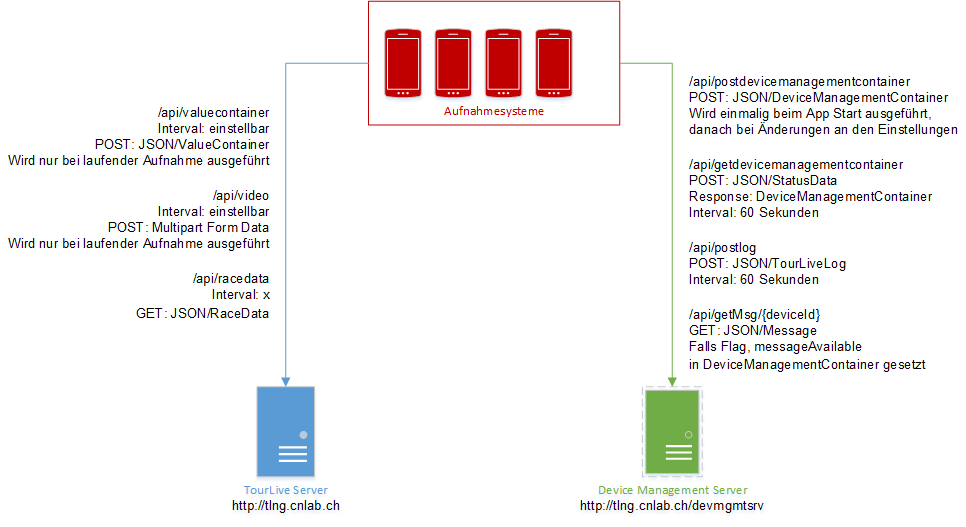
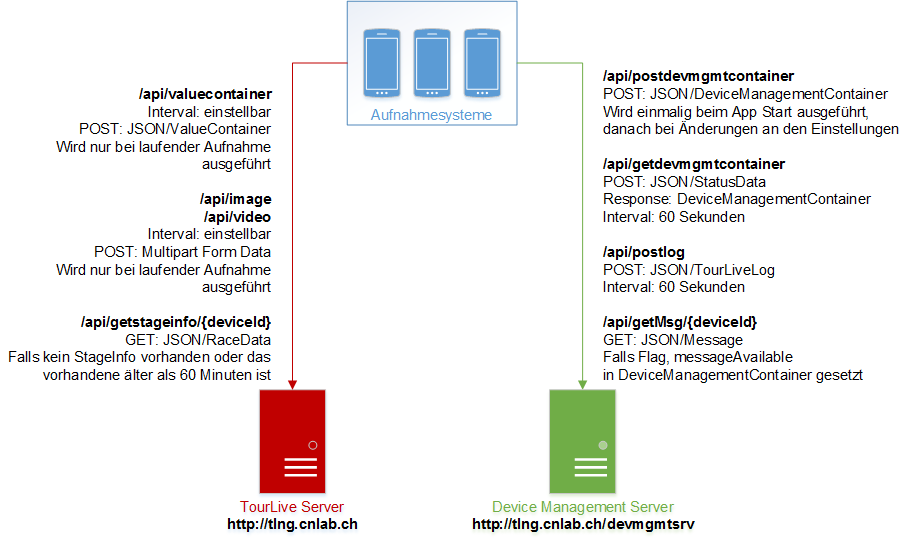
schnittstellen image

Changed region(s): [[0.3087, 0.0, 1.0, 0.5465], [0.0, 0.1518, 0.4013, 0.9715], [0.5248, 0.5769, 0.957, 0.9715]]

diff --git a/chapter/50schnittstellen.tex b/chapter/50schnittstellen.tex
@@ -1,6 +1,12 @@
 \chapter{Schnittstellen}
 
-Das Aufnahmesystem kommuniziert sowohl mit dem TourLive Server als auch mit dem DeviceManagement Server in beide Richtungen. In diesem Kapitel werden die Schnittstellen zwischen Aufnahmesystem, TourLive Server sowie DeviceManagement Server und die öffentliche Schnittstelle erläutert.
+Das Aufnahmesystem kommuniziert sowohl mit dem TourLive Server als auch mit dem Device Management Server in beide Richtungen. In diesem Kapitel werden die Schnittstellen zwischen Aufnahmesystem, TourLive Server sowie Device Management Server und die öffentliche Schnittstelle erläutert. Die folgende Graphik gibt einen Überblick über alle Schnittstellen.
+
+\begin{figure}[H]
+	\centering
+	\includegraphics[width=150mm]{images/uebersicht_schnittstelle.png}
+	\caption{Übersicht Schnittstellen}
+\end{figure}
 
 \section{TourLive Interne Schnittstelle}
 \label{sec:tourliveserverapi}
@@ -57,7 +63,7 @@ Die Aufnahmegeräte liefern an dieser Stelle die ValueContainer, Bilder und Vide
 		& Body: & Custom JSON-String \\	
 	\textbf{Bemerkung:} & \multicolumn{2}{p{10cm}}{Im Body der Response wird eine eigens kreierte HashMap ausgeliefert, darin sind aktuelle Etappeninformationen für das angegebene Gerät. Diese Informationen werden für den Rennbegleiter auf dem Gerät dargestellt} \\
 \hline
-\hline 
+\hline  \\
 \caption{Schnittstellen TourLive Server - Aufnahmegerät}
 \end{longtable} }
 
@@ -120,14 +126,18 @@ Die Renn- und Etappeninformationen stehen für Drittentwickler zur Verfügung. Z
 		& Body: & JSON-Array 'Riders'\\
 	\textbf{Bemerkung:} & \multicolumn{2}{p{10cm}}{Sämtliche Fahrer, welche dieser Etappe zugeordnet sind} \\
 \hline
-\hline
+\hline \\
 \caption{TourLive Public API}
 \end{longtable}}
 
 \section{Device Management Portal Schnittstelle}
+
+\subsection{Einstellungen posten}
+Sobald die Einstellungen in der App geändert werden, müssen sie über diese Schnittstelle an den Server gesendet werden.
+
 {\renewcommand{\arraystretch}{1}
     \begin{longtable}{ p{2.5cm} p{3.5cm} p{6cm}}
-	\textbf{URL:} & \multicolumn{2}{l}{/devmgmtsrv/api/postdevicemanagementcontainer} \\
+	\textbf{URL:} & \multicolumn{2}{l}{/devmgmtsrv/api/postdevmgmtsrv} \\
 	\textbf{Request:} & Method: & POST \\
 		& Content-Type: & application/json \\
 		& Body: & JSON-String 'DeviceManagementContainer'\\
@@ -135,9 +145,24 @@ Die Renn- und Etappeninformationen stehen für Drittentwickler zur Verfügung. Z
 		& Body: & <empty>	\\
 	\textbf{Eigenschaft:} & \multicolumn{2}{p{10cm}}{Wird einmalig beim App Start ausgeführt sowie bei lokalen Änderungen in den Einstellungen} \\
 	\textbf{Interval:} & \multicolumn{2}{p{10cm}}{unregelmässig} \\
-\hline
-\hline    
-	\textbf{URL:} & \multicolumn{2}{l}{/devmgmtsrv/api/getdevicemanagementcontainer} \\
+	\\
+\caption{Schnittstelle Einstellungen}
+\end{longtable}}
+
+\subsubsection{Einstellungen JSON}
+\begin{figure}[H]
+	\centering
+	\lstinputlisting[language=json]{jsonfiles/settings.json}
+	\caption{Einstellungen JSON}
+\end{figure}
+
+\subsection{Status posten und Einstellungen erhalten}
+
+Um den aktuellen Status des Aufnahmesystems dem Server mitzuteilen kann diese Methode aufgerufen werden. Als Antwort erhält man die im Moment aktuellen Einstellungen.
+
+{\renewcommand{\arraystretch}{1}
+    \begin{longtable}{ p{2.5cm} p{3.5cm} p{6cm}} 
+	\textbf{URL:} & \multicolumn{2}{l}{/devmgmtsrv/api/getdevmgmtsrv} \\
 	\textbf{Request:} & Content-Type: & application/json \\
 		& Method: & POST \\
 		& Body: & JSON-String 'StatusData' \\
@@ -146,39 +171,9 @@ Die Renn- und Etappeninformationen stehen für Drittentwickler zur Verfügung. Z
 		& Body: & JSON-String 'DeviceManagementContainer' \\
 	\textbf{Eigenschaft:} & \multicolumn{2}{p{10cm}}{Wird regelmässig als Service ausgeführt.} \\ 
 	\textbf{Interval:} & \multicolumn{2}{p{10cm}}{regelmässig - alle 60 Sekunden} \\
-\hline
-\hline    
-	\textbf{URL:} & \multicolumn{2}{p{10cm}}{/devmgmtsrv/api/postlog} \\
-	\textbf{Request:} & Method: & POST \\
-		& Content-Type: & application/json \\
-		& Body: & JSON-String 'TourLiveLog' \\
-	\textbf{Response:} &  Header: & HTTP/1.1 200 OK \\
-		& Body: & <empty>	\\
-	\textbf{Eigenschaft:} &  \multicolumn{2}{p{10cm}}{Wird regelmässig als Service ausgeführt.}\\ 
-	\textbf{Interval:} &  \multicolumn{2}{p{10cm}}{regelmässig - alle 60 Sekunden}\\
-\hline
-\hline 
-	\textbf{URL:} & \multicolumn{2}{p{10cm}}{/devmgmtsrv/api/getMsg/\{deviceId\}} \\
-	\textbf{Request:} & Method: & GET \\
-		& Body: & <empty> \\
-	\textbf{Response:} & Method: & POST \\
-		& Content-Type: & application/json \\
-		& Body: & JSON-String 'Message' \\
-	\textbf{Eigenschaft:} & \multicolumn{2}{p{10cm}}{ Wenn das 'messageAvailable'-Flag gesetzt ist in einem empfangenen DeviceManagementContainer.} \\
-	\textbf{Interval:} & \multicolumn{2}{p{10cm}}{unregelmässig}\\
-\hline
-\hline 
-
-\caption{Schnittstellen DeviceManagement Portal Übersicht}
-\end{longtable} }
-
-\pagebreak
-\subsection{Status posten und Einstellungen erhalten}
-
-Um den aktuellen Status des Aufnahmesystems dem Server mitzuteilen kann diese Methode aufgerufen werden. Als Antwort erhält man die im Moment aktuellen Einstellungen.
-
-{\bf URL: }http://tlng.cnlab.ch/devmgmtsrv/api/getdevicemanagementcontainer 
-
+	\\
+\caption{Schnittstelle Status}
+\end{longtable}	}
 \subsubsection{Status JSON}
 
 Das JSON eines Status Posts sieht folgendermassen aus:
@@ -190,23 +185,23 @@ Das JSON eines Status Posts sieht folgendermassen aus:
 \end{figure}
 
 
-\pagebreak
-\subsubsection{Einstellungen JSON}
-
-Die Antwort die man bei dieser Anfrage erhält ist die folgende:
-
-\begin{figure}[H]
-	\centering
-	\lstinputlisting[language=json]{jsonfiles/settings.json}
-	\caption{Einstellungen JSON}
-\end{figure}
-
-
 \subsection{Log posten}
 
 Um neue Logeinträge dem Server zu übermitteln kann diese Methode benutzt werden.
 
-{\bf URL: }http://tlng.cnlab.ch/devmgmtsrv/api/postlog
+{\renewcommand{\arraystretch}{1}
+    \begin{longtable}{ p{2.5cm} p{3.5cm} p{6cm}}
+	\textbf{URL:} & \multicolumn{2}{p{10cm}}{/devmgmtsrv/api/postlog} \\
+	\textbf{Request:} & Method: & POST \\
+		& Content-Type: & application/json \\
+		& Body: & JSON-String 'TourLiveLog' \\
+	\textbf{Response:} &  Header: & HTTP/1.1 200 OK \\
+		& Body: & <empty>	\\
+	\textbf{Eigenschaft:} &  \multicolumn{2}{p{10cm}}{Wird regelmässig als Service ausgeführt.}\\ 
+	\textbf{Interval:} &  \multicolumn{2}{p{10cm}}{regelmässig - alle 60 Sekunden}\\
+	\\
+\caption{Schnittstelle Log}
+\end{longtable}}
 
 \subsubsection{Log JSON}
 
@@ -222,7 +217,20 @@ Das JSON eines Log Posts sieht folgendermassen aus:
 
 Sofern eine neue Nachricht für das Gerät vorhanden ist kann sie über diese Methoden abgeholt werden.
 
-{\bf URL: }http://tlng.cnlab.ch/devmgmtsrv/api/getmsg/{deviceId}
+{\renewcommand{\arraystretch}{1}
+    \begin{longtable}{ p{2.5cm} p{3.5cm} p{6cm}}
+
+	\textbf{URL:} & \multicolumn{2}{p{10cm}}{/devmgmtsrv/api/getMsg/\{deviceId\}} \\
+	\textbf{Request:} & Method: & GET \\
+		& Body: & <empty> \\
+	\textbf{Response:} & Method: & POST \\
+		& Content-Type: & application/json \\
+		& Body: & JSON-String 'Message' \\
+	\textbf{Eigenschaft:} & \multicolumn{2}{p{10cm}}{ Wenn das 'messageAvailable'-Flag gesetzt ist in einem empfangenen DeviceManagementContainer.} \\
+	\textbf{Interval:} & \multicolumn{2}{p{10cm}}{unregelmässig}\\
+\\
+\caption{Schnittstelle Nachricht abholen}
+\end{longtable} }
 
 \subsubsection{Nachrichten JSON}
 Das JSON für die Nachrichten ist das folgende:
